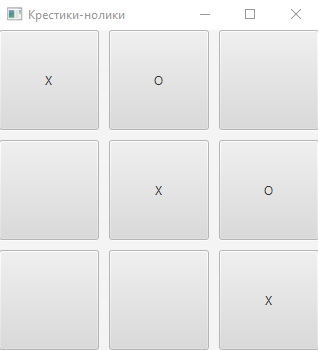
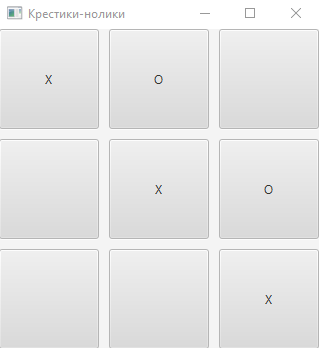
Bavizhev v0.2

diff --git a/Readme.md b/Readme.md
@@ -22,7 +22,7 @@
 
    ![img_4.png](imgs/img_4.png)
 
-   ![img_1.png](imgs/img_1.png)
+   ![img_5.png](imgs/img_5.png)
 
 6. Если ни одно из условий не выполнено, программа меняет текущего игрока.
 
